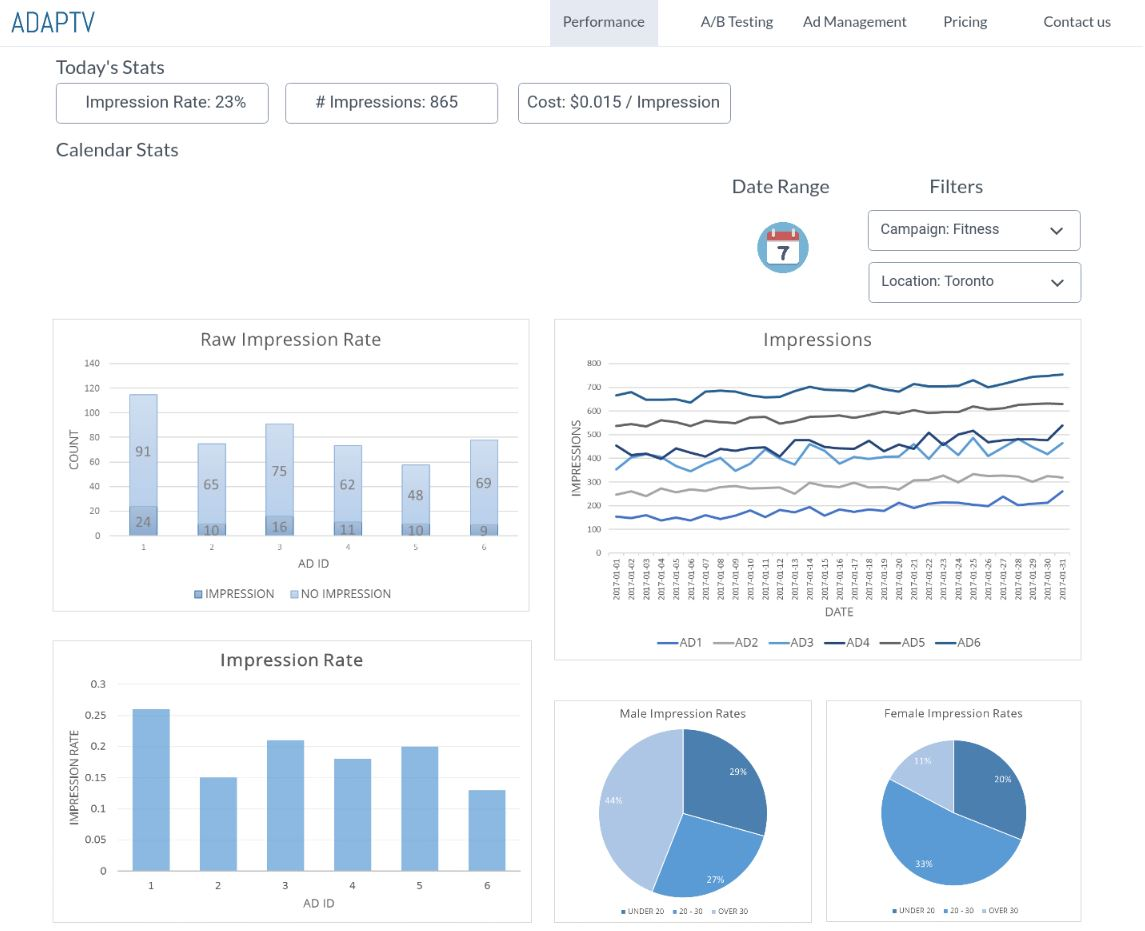
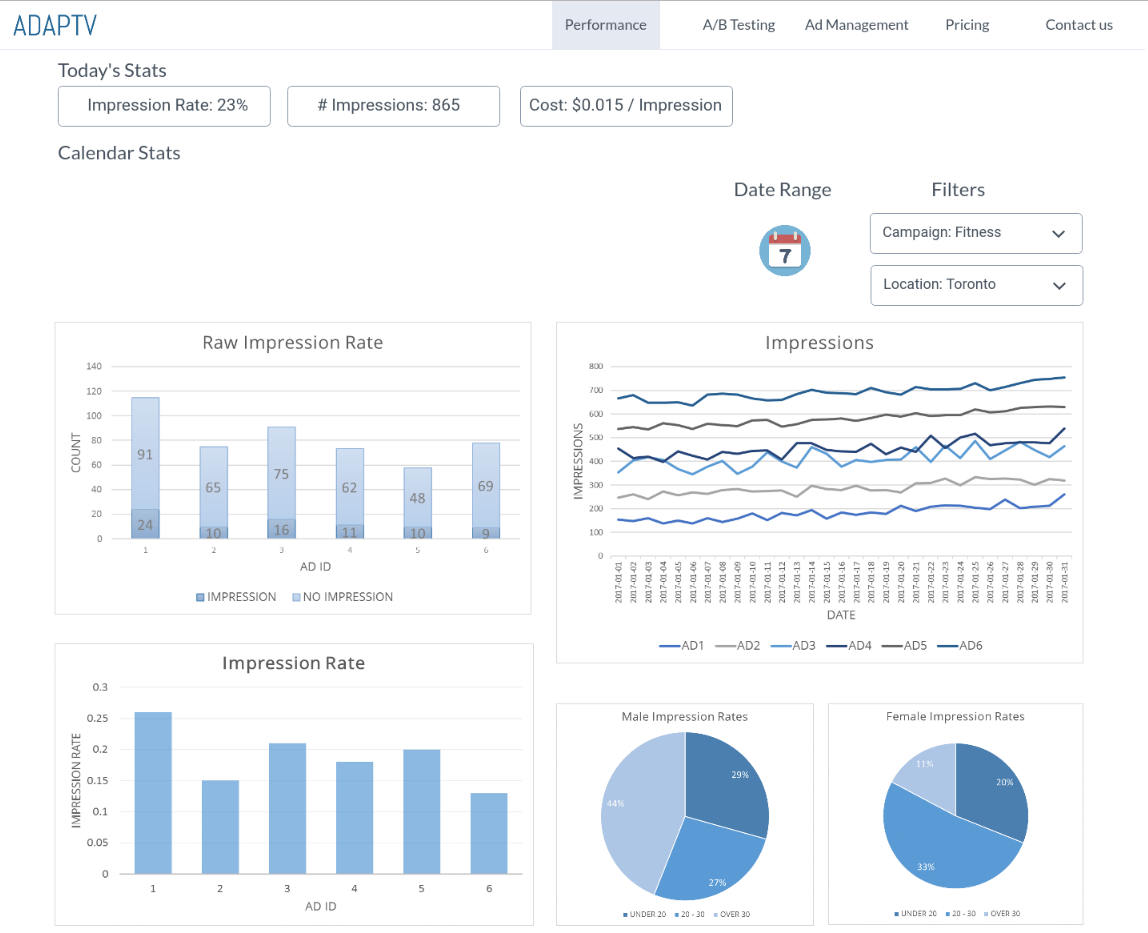
new

diff --git a/page-title-pattern-fydp-refinement.html b/page-title-pattern-fydp-refinement.html
@@ -9,7 +9,7 @@
     <!--favicon icon-->
     <link rel="icon" type="image/png" href="img/favicon.png">
 
-    <title>Massive - page title pattern</title>
+    <title>Design Refinement</title>
 
 
     <!--common style-->
@@ -117,7 +117,7 @@
             <div class="container">
                 <div class="row">
                     <div class="col-md-12">
-                        <h4 class="text-uppercase">First Prototype</h4>
+
                         <span></span>
                         <ol class="breadcrumb">
 
@@ -138,39 +138,61 @@
     
                     <h2> Performance </h2>
 
-                    <img class="retina" src="img/fydp_proto/Performance.png"  alt=""/>
+                    <img class="retina" src="img/fydp_proto/Performance_rev1.png"  alt=""/>
                     <br><br>
                     <h2> AB Testing </h2>
-                    <img class="retina" src="img/fydp_proto/AB_Testing.png" alt=""/>
+                    <img class="retina" src="img/fydp_proto/AB_Testing_rev1.png" alt=""/>
                     <br><br>
                     <h2> AD Management </h2>
-                    <img class="retina" src="img/fydp_proto/AD_mgmt.png" alt=""/>
-        
+                    <img class="retina" src="img/fydp_proto/AD_mgmt_rev1.png" alt=""/>
+        <br><br><br><br>
         </nav>
 
         <article class="article">
 
-          <h1>Changes to A</h1>
-          <p>London is the capital city of England. It is the most populous city in the United Kingdom,
-          with a metropolitan area of over 13 million inhabitants.</p>
-          <p>Standing on the River Thames, London has been a major settlement for two millennia,
-          its history going back to its founding by the Romans, who named it Londinium.</p>
-          <p><strong>Resize this page to see that what happens!</strong></p>
+          <h1>Changes to Performance</h1>
+          <p> After showing the <a href="page-title-pattern-fydp-prototype.html" target="_blank">current prototype</a> of the performance page to potential users and having them complete tasks coinciding with the original 
+          <a href="page-title-pattern-fydp-user-interviews.html" target="_blank">user interviews </a>, it was found that the design lacked a measure of the cost per ad, which the user cared about on a daily basis. Consequently a section detaling the current day's performance metrics, particularly that of $/Impression was added to the top of the page. </p>
+
+          <p>Moreover, the user feedback also revealed that the user would like to be able to filter by the location in which the ad is served, so this functionality was also added. </p>
+          
+          <br><br>
+          <br><br>
+          <br><br>
+          <br><br>
+          <br><br>
+          <br><br>
+          <br><br>
+          <br><br>
+          <br><br>
+          <br><br>
+          <br><br>
+          <br><br>
+          <br><br>
+          <br><br>
+          <br><br>
+          <br><br>
+
+          <h1>Changes to AB Testing</h1>
+          <p> Peer feedback revealed that the create/cancel AB test functionality was not salient, and so the size was increased. Moreover, a progress bar was added to represent the progress towards completion. Peer feedback also noted that the most important piece of information on the page, the result of the test, was not salient enough, and so it was chagned to a bolded font. The test filter was also moved leftwards, right below the first line of text instructing the user to select a test to view. The leftwards orientation will allow for faster use.</p>
+          <p>The add or remove AB Tests button was also made larger to maintain consistency with the Performance page</p>
 
 
-          <h1>Changes to B</h1>
-          <p>London is the capital city of England. It is the most populous city in the United Kingdom,
-          with a metropolitan area of over 13 million inhabitants.</p>
-          <p>Standing on the River Thames, London has been a major settlement for two millennia,
-          its history going back to its founding by the Romans, who named it Londinium.</p>
-          <p><strong>Resize this page to see that what happens!</strong></p>
+          <br><br>
+          <br><br>
+          <br><br>
+          <br><br>
+          <br><br>
+          <br><br>
+          <br><br>
+          <br><br>
+          <br><br>
+          <br><br>
 
-          <h1>Changes to C</h1>
-          <p>London is the capital city of England. It is the most populous city in the United Kingdom,
-          with a metropolitan area of over 13 million inhabitants.</p>
-          <p>Standing on the River Thames, London has been a major settlement for two millennia,
-          its history going back to its founding by the Romans, who named it Londinium.</p>
-          <p><strong>Resize this page to see that what happens!</strong></p>
+     
+          <h1>Changes to Ad Management</h1>
+          <p>The add or remove AB Tests button was made larger to maintain consistency with the Performance and AB Testing pages</p>
+
 
 
         </article>

diff --git a/page-title-pattern-fydp-prototype.html b/page-title-pattern-fydp-prototype.html
@@ -9,7 +9,7 @@
     <!--favicon icon-->
     <link rel="icon" type="image/png" href="img/favicon.png">
 
-    <title>Massive - page title pattern</title>
+    <title>First Prototype</title>
 
 
     <!--common style-->

diff --git a/portfolio-3-title-fydp.html b/portfolio-3-title-fydp.html
@@ -9,7 +9,7 @@
     <!--favicon icon-->
     <link rel="icon" type="image/png" href="img/favicon.png">
 
-    <title>Massive - Portfolio 3 title</title>
+    <title>FYDP Portfolio</title>
 
 
     <!--common style-->
